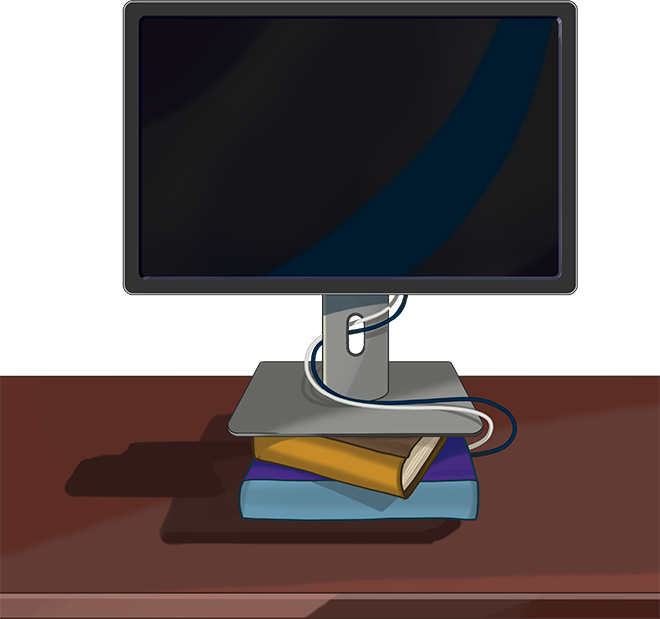
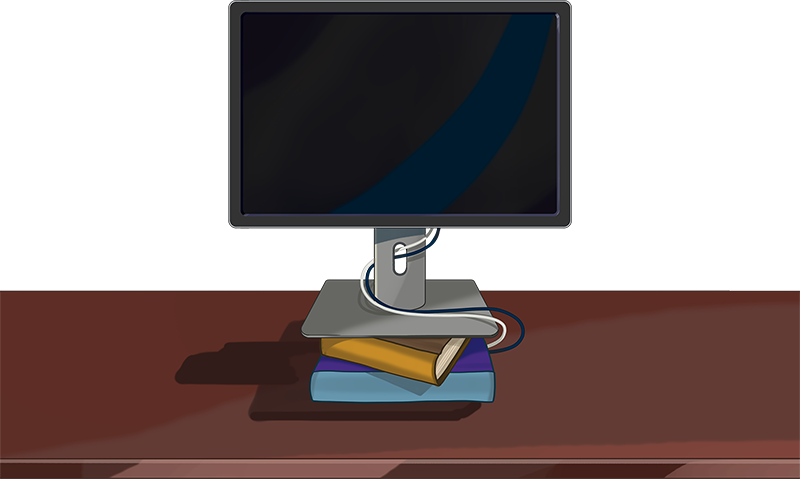
Верстка_2

diff --git a/source/less/style.less b/source/less/style.less
@@ -7,19 +7,21 @@ body {
 
 .container {
   position: relative;
-  padding: 0 30px;
   height: 100vh;
   background-image: url("../img/background/bg-bamboo-mobile@1x.jpg");
+  background-size: cover;
+  overflow: hidden;
 
   @media (min-resolution: 2dppx) {
-    background-image: url("../img/backgrounds/bg-bamboo-mobile@2x.jpg");
+    background-image: url("../img/background/bg-bamboo-mobile@2x.jpg");
   }
 
   @media (min-width: 660px) {
+    padding: 0 30px;
     background-image: url("../img/background/bg-bamboo-tablet@1x.jpg");
 
     @media (min-resolution: 2dppx) {
-      background-image: url("../img/backgrounds/bg-bamboo-tablet@2x.jpg");
+      background-image: url("../img/background/bg-bamboo-tablet@2x.jpg");
     }
   }
 
@@ -29,7 +31,7 @@ body {
     background-image: url("../img/background/bg-bamboo-desktop@1x.jpg");
 
     @media (min-resolution: 2dppx) {
-      background-image: url("../img/backgrounds/bg-bamboo-desktop@2x.jpg");
+      background-image: url("../img/background/bg-bamboo-desktop@2x.jpg");
     }
   }
 }
@@ -37,6 +39,8 @@ body {
 .monitor {
   position: absolute;
   bottom: 0;
+  width: 710px;
+  height: auto;
   left: 50%;
   transform: translateX(-50%);
   display: block;
@@ -46,7 +50,6 @@ body {
   @media (min-width: 660px) {
     bottom: 50px;
     width: 660px;
-    height: auto;
   }
 
   @media (min-width: 1200px) {
@@ -57,7 +60,10 @@ body {
 
 .shelf {
   position: absolute;
-  left: 50%;
+  top: -10px;
+  left: 52%;
+  width: 600px;
+  height: auto;
   transform: translateX(-50%);
   display: block;
   margin: 0;
@@ -65,6 +71,7 @@ body {
 
   @media (min-width: 660px) {
     top: 50px;
+    left: 50%;
     width: 660px;
     height: auto;
   }
@@ -77,11 +84,13 @@ body {
 
 .sticker {
   position: absolute;
+  bottom: 367px;
   left: 50%;
   transform: translateX(-50%);
   display: block;
   margin: 0;
   padding: 0;
+  width: 55px;
   height: auto;
 
   @media (min-width: 660px) {
@@ -105,6 +114,8 @@ body {
 }
 
 .sticker-inst {
+  width: 95px;
+
   @media (min-width: 660px) {
     width: 65px;
   }
@@ -116,7 +127,9 @@ body {
 
 .sticker-arrow {
   position: absolute;
+  bottom: 375px;
   left: 50%;
+  width: 22px;
   transform: translateX(-50%);
 
   @media (min-width: 660px) {
@@ -131,6 +144,8 @@ body {
 }
 
 .sticker-pic {
+  width: 115px;
+
   @media (min-width: 660px) {
     width: 85px;
   }
@@ -141,12 +156,14 @@ body {
 }
 
 .links-container {
+  position: relative;
+  top: 45vh;
+  width: 300px;
+  height: 100px;
+  margin: 0 auto;
+
   @media (min-width: 660px) {
-    position: relative;
-    top: 45vh;
     width: 260px;
-    height: 100px;
-    margin: 0 auto;
   }
 
   @media (min-width: 1200px) {
@@ -156,6 +173,8 @@ body {
 
 .link-inst {
   position: absolute;
+  right: 20px;
+  bottom: -20px;
   cursor: pointer;
 
   @media (min-width: 660px) {
@@ -171,6 +190,8 @@ body {
 
 .link-pictures {
   position: absolute;
+  left: 10px;
+  bottom: -23px;
   cursor: pointer;
 
   @media (min-width: 660px) {

diff --git a/source/index.html b/source/index.html
@@ -23,7 +23,7 @@
       <source media="(min-width: 1200px)"
         srcset="img/things/shelf-desktop@1x.png 1x, img/things/shelf-desktop@2x.png 2x">
       <source media="(min-width: 660px)" srcset="img/things/shelf-tablet@1x.png 1x, img/things/shelf-tablet@2x.png 2x">
-      <img class="shelf" src="img/things/shelf-desktop@2x.png" alt="полка со стикерами" width="1080" height="236">
+      <img class="shelf" srcset="img/things/shelf-mobile@1x.png 1x, img/things/shelf-mobile@2x.png 2x," alt="полка" width="660" height="292">
     </picture>
     <img class="sticker" src="img/things/sticker-yellow.png" alt="стикер" width="85" height="80">
     <div class="links-container">
